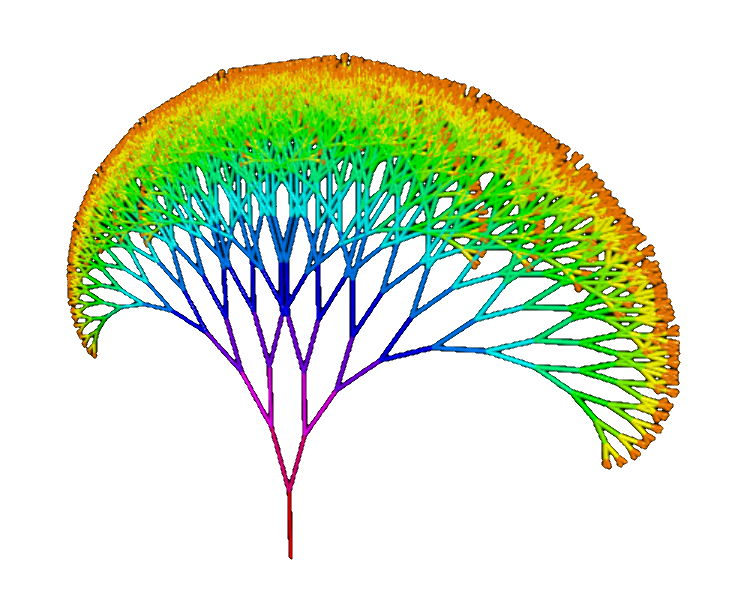
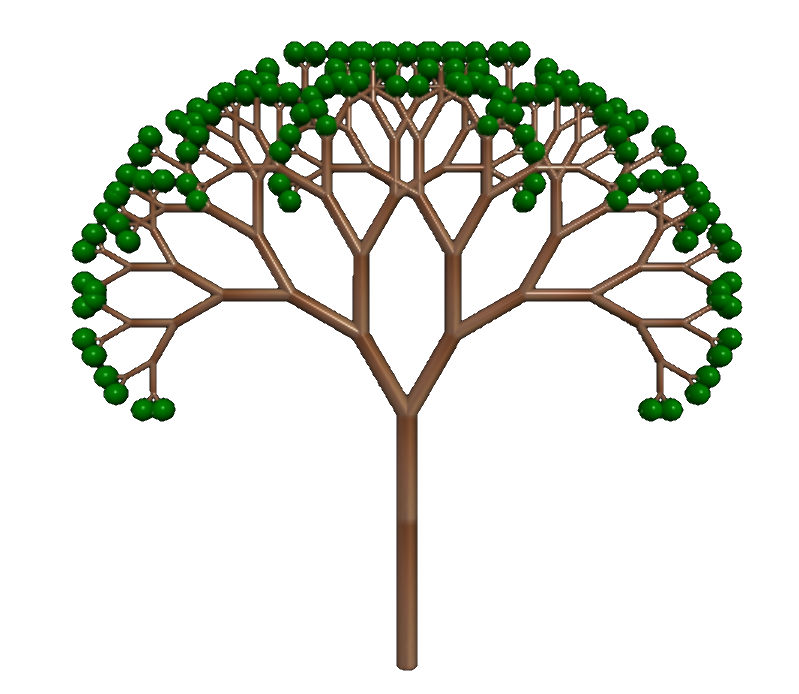
Update.

diff --git a/nature/code/Tree.html b/nature/code/Tree.html
@@ -44,13 +44,14 @@ var ρσ_modules = {};
 
     ρσ_modules.pythonize.strings = strings;
 })();
-
 async function __main__() {
 "use strict";
     var display = canvas;
     var scene = canvas();
-    var arrow, box, compound, cone, cylinder, ellipsoid, extrusion, helix, points, pyramid, ring, sphere, simple_sphere, group, vector, sleep, update, paths, shapes, vertex, triangle, quad, label, distant_light, local_light, attach_trail, attach_arrow, attach_light, sqrt, pi, tan, asin, acos, atan, atan2, exp, log, pow, factorial, combin, button, radio, checkbox, slider, checkbox, text, download, degrees, get_library, read_local_file
-    var version, print, arange, __name__, type, ρσ_ls, title, display, spread, ρσ_unpack, width, height, max_recursion_depth, branch_length, lines;
+
+    function round(num, n=0) {return Number(num.toFixed(n))}
+
+    var version, print, arange, __name__, type, ρσ_ls, title, display, stem;
     version = ρσ_list_decorate([ "3.2", "glowscript" ]);
     Array.prototype['+'] = function(r) {return this.concat(r)}
     Array.prototype['*'] = function(r) {return __array_times_number(this, r)}
@@ -62,52 +63,59 @@ async function __main__() {
     var strings = ρσ_modules.pythonize.strings;
 
     strings();
-    "6";
-    title = "&#x2022; Based on <a href=\"http://rosettacode.org/wiki/Fractal_tree#Python\">Fractal_tree<\/a> via <a href=\"https://prettymathpics.com/fractal-tree/\">prettymathpics.com</a>\n&#x2022; Original authors: Alan Richmond, Python3.codes, and others at <a href=\"http://rosettacode.org/\">rosettacode.org</a>\n&#x2022; Adapted to <a href=\"https://vpython.org/\">VPython</a> by <a href=\"https://www.hendrikse.name/\">Zeger Hendrikse</a> in <a href=\"https://github.com/zhendrikse/science/blob/main/nature/code/tree.py\">tree.py</a>\n\n";
+    "8";
+    title = "&#x2022; Based on <a href=\"https://trinket.io/glowscript/9d17ee2036\">this example<\/a>\n&#x2022; Modified by <a href=\"https://www.hendrikse.name/\">Zeger Hendrikse</a> in <a href=\"https://github.com/zhendrikse/science/blob/main/nature/code/tree.py\">tree.py</a>\n\n";
     "10";
-    display = ρσ_interpolate_kwargs.call(this, canvas, [ρσ_desugar_kwargs({title: title, background: color.gray(0.075), width: 600, height: 400, range: 380, center: vec(300, 1["-u"]()["*"](18), 1["-u"]()["*"](70)), forward: vec(1["-u"]()["*"](.45), 1["-u"]()["*"](.2), 1["-u"]()["*"](.87))})]);
+    display = ρσ_interpolate_kwargs.call(this, canvas, [ρσ_desugar_kwargs({background: color.gray(.075), center: vector(0, 50, 0), height: 500, title: title})]);
     "12";
-    spread = 17;
-    "13";
-    ρσ_unpack = [512, 400];
-    width = ρσ_unpack[0];
-    height = ρσ_unpack[1];
-    "14";
-    max_recursion_depth = 12;
-    "15";
-    branch_length = 8;
-    "17";
-    lines = ρσ_list_decorate([ ρσ_interpolate_kwargs.call(this, curve, [ρσ_desugar_kwargs({pos: vec(width["/"](2), height["*"](.9), 0)})]) ]);
-    "21";
-    async function draw_tree(x1, y1, angle, depth) {
-        var ρσ_ls, x2, y2, colour;
-        "22";
-        if (depth[">"](0)) {
+    async function tree(branch_length, branch_pos, branch_vector) {
+        var ρσ_ls, theta_0, short, theta;
+        "13";
+        theta_0 = 30["*"](pi)["/"](180);
+        "14";
+        short = 14.5;
+        "17";
+        if (branch_length[">"](5)) {
+            "18";
+            theta = theta_0;
+            "20";
+            if (branch_length["<"](20)) {
+                "21";
+                ρσ_interpolate_kwargs.call(this, sphere, [ρσ_desugar_kwargs({pos: branch_pos, axis: branch_vector["*"](branch_length), radius: 1.5["*"](branch_length), color: vec(0, .5, 0)})]);
+                "22";
+            } else {
+                "23";
+                ρσ_interpolate_kwargs.call(this, cylinder, [ρσ_desugar_kwargs({pos: branch_pos, axis: branch_vector["*"](branch_length), radius: .1["*"](branch_length), texture: textures.wood})]);
+            }
             "24";
-            x2 = x1["+"](int(cos((await radians(angle)))["*"](depth)["*"](branch_length)));
-            "25";
-            y2 = y1["+"](int(sin((await radians(angle)))["*"](depth)["*"](branch_length)));
+            branch_pos=branch_pos["+"](branch_vector["*"](branch_length));
+            "26";
+            branch_vector = ρσ_interpolate_kwargs.call(this, rotate, [branch_vector].concat([ρσ_desugar_kwargs({angle: theta, axis: vector(0, 0, 1)})]));
             "28";
-            colour = color.hsv_to_rgb(vec(float(depth)["/"](max_recursion_depth), 1, 1));
+            (await tree(branch_length["-"](1["*"](short)), branch_pos, branch_vector));
             "31";
-            lines.append(ρσ_interpolate_kwargs.call(this, curve, [ρσ_desugar_kwargs({pos: ρσ_list_decorate([ vec(x1, 1["-u"]()["*"](y1), 0), vec(x2, 1["-u"]()["*"](y2), 0) ]), color: colour})]));
+            branch_vector = ρσ_interpolate_kwargs.call(this, rotate, [branch_vector].concat([ρσ_desugar_kwargs({angle: 1["-u"]()["*"](2)["*"](theta), axis: vector(0, 0, 1)})]));
             "34";
-            (await draw_tree(x2, y2, angle["-"](1["*"](spread)), depth["-"](1["*"](1))));
+            (await tree(branch_length["-"](1["*"](short)), branch_pos, branch_vector));
             "35";
-            (await draw_tree(x2, y2, angle["+"](spread), depth["-"](1["*"](1))));
+            branch_vector = ρσ_interpolate_kwargs.call(this, rotate, [branch_vector].concat([ρσ_desugar_kwargs({angle: theta, axis: vector(0, 0, 1)})]));
+            "36";
+            branch_pos=branch_pos["-"](branch_length["*"](branch_vector));
         }
     };
-    if (!draw_tree.__argnames__) Object.defineProperties(draw_tree, {
-        __argnames__ : {value: ["x1", "y1", "angle", "depth"]},
+    if (!tree.__argnames__) Object.defineProperties(tree, {
+        __argnames__ : {value: ["branch_length", "branch_pos", "branch_vector"]},
         __module__ : {value: null}
     });
 
     "39";
-    (await draw_tree(width["/"](2), height["*"](.9), 1["-u"]()["*"](90), max_recursion_depth));
+    stem = ρσ_interpolate_kwargs.call(this, cylinder, [ρσ_desugar_kwargs({pos: vec(0, 1["-u"]()["*"](300), 0), radius: 12.5, axis: vec(0, 175, 0), texture: textures.wood})]);
     "41";
+    await ρσ_list_decorate(ρσ_interpolate_kwargs.call(this, tree, [ρσ_desugar_kwargs({branch_length: 125, branch_pos: vector(0, 1["-u"]()["*"](125), 0), branch_vector: vector(0, 1, 0)})]));
+    "43";
     while (true) {
-        "42";
-        (await rate(10));
+        "44";
+        (await rate(2));
     }
 };
 if (!__main__.__module__) Object.defineProperties(__main__, {

diff --git a/nature/code/tree.py b/nature/code/tree.py
@@ -1,43 +1,44 @@
-title = """&#x2022; Based on <a href="http://rosettacode.org/wiki/Fractal_tree#Python">Fractal_tree</a> via <a href="https://prettymathpics.com/fractal-tree/">prettymathpics.com</a> 
-&#x2022; Original authors: Alan Richmond, Python3.codes, and others at <a href="http://rosettacode.org/">rosettacode.org</a>
-&#x2022; Adapted to <a href="https://vpython.org/">VPython</a> by <a href="https://www.hendrikse.name/">Zeger Hendrikse</a> in <a href="https://github.com/zhendrikse/science/blob/main/nature/code/tree.py">tree.py</a>
+#Web VPython 3.2
+
+from vpython import vector, rotate, color, vec, sphere, cylinder, canvas, textures, pi, rate, random
+
+title = """&#x2022; Based on <a href="https://trinket.io/glowscript/9d17ee2036">this example</a> 
+&#x2022; Modified by <a href="https://www.hendrikse.name/">Zeger Hendrikse</a> in <a href="https://github.com/zhendrikse/science/blob/main/nature/code/tree.py">tree.py</a>
 
 """
 
-from vpython import curve, cos, radians, color, vec, sin, rate, canvas
+display = canvas(background=color.gray(0.075), center=vector(0, 50, 0), height=500, title=title)
 
-display = canvas(title=title, width=600, height=400, range=380, center=vec(300, -18, -70), forward=vec(-.45, -.2, -.87), background=color.gray(0.075))
+def tree(branch_length, branch_pos, branch_vector):
+    theta_0 = 30 * pi / 180 # theta is the "bend angle" for each branching
+    short = 14.5  # this is the amount each branch is decreased by
 
-spread = 17  # how much branches spread apart
-width, height = 512, 400  # window size
-max_recursion_depth = 12  # maximum recursion depth
-branch_length = 8.0  # branch length factor
+    # repeat the branching until the length is shorter than 5
+    if branch_length > 5:
+        theta = theta_0 # + (random() - .5) * pi / 10
 
-lines = [curve(pos=vec(width / 2, height * 0.9, 0))]  # , radius=0.1, visible=False)]
+        if branch_length < 20:
+            sphere(pos=branch_pos, axis=branch_vector * branch_length, radius=1.5 * branch_length, color=vec(0, .5, 0))
+        else:
+            cylinder(pos=branch_pos, axis=branch_vector * branch_length, radius=.1 * branch_length, texture=textures.wood)
+        branch_pos += branch_vector * branch_length
+        # rotate turns the pointing direction
+        branch_vector = rotate(branch_vector, angle=theta, axis=vector(0, 0, 1))
+        # here is the recursive magic
+        tree(branch_length - short, branch_pos, branch_vector)
 
+        # now you have to go back to where you were
+        branch_vector = rotate(branch_vector, angle=-2 * theta, axis=vector(0, 0, 1))
 
-# This function calls itself to add sub-trees
-def draw_tree(x1, y1, angle, depth):
-    if depth <= 0:
-        return
+        # this does the other side (also recursively)
+        tree(branch_length - short, branch_pos, branch_vector)
+        branch_vector = rotate(branch_vector, angle=theta, axis=vector(0, 0, 1))
+        branch_pos -= branch_length * branch_vector
 
-    # compute this branch's next endpoint
-    x2 = x1 + int(cos(radians(angle)) * depth * branch_length)
-    y2 = y1 + int(sin(radians(angle)) * depth * branch_length)
+# Artificially elongate the stem
+stem = cylinder(pos=vec(0, -300, 0), radius=12.5, axis=vec(0, 175, 0), texture=textures.wood)
 
-    # https://docs.python.org/2/library/colorsys.html
-    colour = color.hsv_to_rgb(vec(float(depth) / max_recursion_depth, 1.0, 1.0))
-
-    # draw the branch
-    lines.append(curve(pos=[vec(x1, -y1, 0), vec(x2, -y2, 0)], color=colour))
-
-    # and append 2 trees by recursion
-    draw_tree(x2, y2, angle - spread, depth - 1)
-    draw_tree(x2, y2, angle + spread, depth - 1)
-
-
-#   Start drawing!
-draw_tree(width / 2, height * 0.9, -90, max_recursion_depth)
+tree(branch_length=125, branch_pos=vector(0, -125, 0), branch_vector=vector(0, 1, 0))
 
 while True:
-    rate(10)
+    rate(2)
